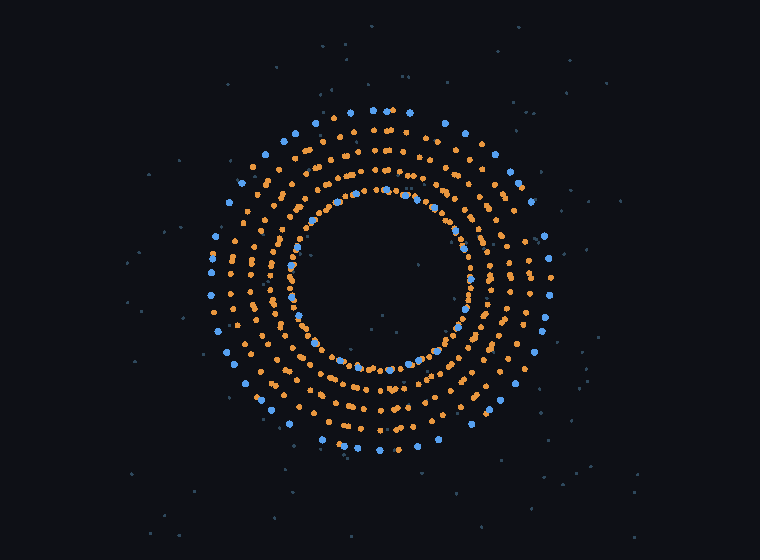
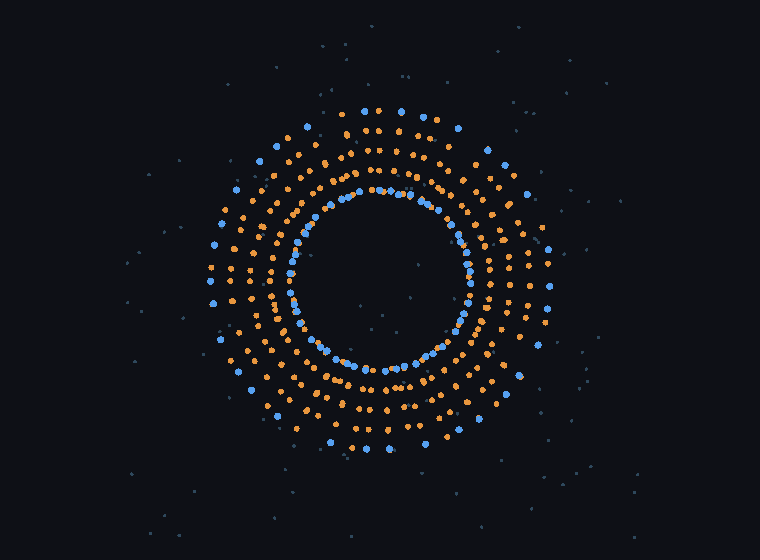
vivarium: 2-D vesicles do not emerge from a dispersed start, at either side of the affordability line
Reframed the criterion first. Demanding that a hand-planted vesicle survive forever is stricter than
the field requires -- simulated vesicles are long-lived METASTABLE states, and a population that forms,
persists and occasionally dissolves is a result. Planted stability is also a confounded diagnostic:
three separate planting artefacts surfaced while chasing it in 3-D (leaflet split by area rather than
volume; an unfilled lumen; a solvent too dilute to pressurise one). So _emerge2d measures the thing
actually wanted -- starting DISPERSED, how often does a closed ring exist AT ALL -- and reports the
fraction of checkpoints classified HOLLOW rather than the final state.

Two runs, 400000 steps, 41 checkpoints each, 1 head + 4 tails, dispersed start, L = 28 where a
spanning stripe costs about 56 lipids:

    N = 70  (stripe affordable)    largest 51/70    HOLLOW at 0 of 41 checkpoints
    N = 45  (ring affordable)      largest 16/45    HOLLOW at 0 of 41 checkpoints

Zero. The falsification criterion stated before the runs is met: closure does not occur by nucleation
here, at either side of the affordability line. Note the ring-favourable arm is the WORSE aggregator --
16 of 45 lipids in the largest cluster against 51 of 70 -- so the regime where a ring could win is
also the regime too dilute to assemble one, which is the trade-off the affordability rule predicts and
the reason the earlier dilute runs stalled at 6-12 of 70.
[…]

Changed region(s): [[0.2724, 0.1821, 0.7263, 0.8196]]

diff --git a/projects/vivarium/_emerge2d.py b/projects/vivarium/_emerge2d.py
@@ -1,0 +1,78 @@
+"""Do vesicles EMERGE in 2-D -- and do they come and go rather than last forever?
+
+REFRAMED CRITERION
+    Demanding that a hand-planted vesicle survive indefinitely is stricter than the field requires.
+    Simulated vesicles are long-lived METASTABLE states, and a population that forms, persists for a
+    while and occasionally dissolves is a result rather than a failure. Planted-stability is also a
+    confounded diagnostic: three separate planting artefacts turned up while chasing it in 3-D
+    (leaflet split by area rather than volume, an unfilled lumen, and a solvent too dilute to
+    pressurise one).
+
+    So this measures the thing actually wanted: starting from DISPERSED lipids, with nothing planted,
+    how often does a closed ring with a lumen exist at all? The readout is the fraction of checkpoints
+    classified HOLLOW over a long run, plus the largest aggregate, not the state at the final step.
+
+HYPOTHESIS     above some concentration a closed ring appears transiently, so the HOLLOW fraction is
+               greater than zero even if no single ring lasts to the end.
+FALSIFICATION  if HOLLOW is never reported at any checkpoint at any concentration, 2-D closure does
+               not occur by nucleation in this model, and the branched-network phase is the whole
+               story.
+
+Concentration is the swept variable because it sets which morphology is affordable: a spanning stripe
+costs about 2L lipids, so at fixed L a ring can only win below that, while too few lipids simply never
+nucleate. The earlier failure -- largest aggregate 6-12 of 70 after 100000 steps -- was at the dilute
+end of exactly this trade-off.
+"""
+
+import sys
+
+import numpy as np
+
+from _mixture import build, geometry, largest_cluster, shot
+from field import Field
+from ring_assay import classify
+
+
+class View:
+    def __init__(self, X, mol, wi, L, pd):
+        self.X, self._mol, self._wi, self.L, self.pd = X, mol, wi, L, pd
+
+
+if __name__ == "__main__":
+    steps = int(sys.argv[1]) if len(sys.argv) > 1 else 400000
+    n_lip = int(sys.argv[2]) if len(sys.argv) > 2 else 70
+    L = float(sys.argv[3]) if len(sys.argv) > 3 else 28.0
+    kT = float(sys.argv[4]) if len(sys.argv) > 4 else 0.35
+    phi, d, n_tail = 0.55, 2, 4
+
+    n_water = int(round(phi * L ** 2 / (np.pi * 0.25))) - (1 + n_tail) * n_lip
+    if n_water < 0:
+        raise ValueError(f"L={L} too small for {n_lip} lipids at packing fraction {phi}")
+    X, species, bonds, mols, wi, chains = build(0, n_lip, n_water, L, d, plant="random")
+    mol = np.array([m for m in mols])
+    f = Field(species, bonds, L)
+    gamma, dt = 1.0, 2e-4
+    rng = np.random.default_rng(1)
+    amp = np.sqrt(2.0 * kT * dt / gamma)
+
+    print(f"EMERGENCE 2-D: {n_lip} lipids (1 head + {n_tail} tails) + {n_water} water, L={L}, "
+          f"kT={kT}, dispersed start, {steps} steps", flush=True)
+    print(f"a spanning stripe costs about {2 * L:.0f} lipids, so a ring is affordable "
+          f"{'BELOW' if n_lip < 2 * L else 'ABOVE -- stripe wins'} this count", flush=True)
+    print(f"{'step':>8}{'E/lip':>9}{'largest':>9}{'R_mid':>7}{'shellCV':>9}{'lumenW':>8}   verdict",
+          flush=True)
+    every = max(steps // 40, 1)
+    hollow = 0
+    checks = 0
+    for t in range(steps + 1):
+        X += (f.forces(X) / gamma) * dt + amp * rng.normal(size=X.shape)
+        X -= L * np.round(X / L)
+        if t % every == 0:
+            v, dd = classify(View(X, mol, wi, L, 2))
+            g = geometry(X, mols, wi, chains, L, d)
+            checks += 1
+            hollow += (v == "HOLLOW")
+            print(f"{t:>8}{f.energy(X) / n_lip:>9.2f}{largest_cluster(X, mols, L):>9}"
+                  f"{g['R_mid']:>7.2f}{g['shell_cv']:>9.3f}{g['lumen_w']:>8}   {v}", flush=True)
+            shot(X, species, L, f"em2d_N{n_lip}_L{int(L)}_s{t:07d}")
+    print(f"\nHOLLOW at {hollow} of {checks} checkpoints ({100.0 * hollow / checks:.0f}%)", flush=True)

diff --git a/projects/vivarium/_mixture.py b/projects/vivarium/_mixture.py
@@ -112,8 +112,46 @@ def build(n_short, n_long, n_water, L, d, tails=(2, 4), seed=0, plant="random"):
     wi = np.arange(k, n)
     species[wi] = WATER
     X[wi] = rng.uniform(-L / 2, L / 2, size=(n_water, d))
+    if plant in ("ring", "sphere"):
+        # FILL THE LUMEN AT BULK DENSITY. Water placed uniformly at random almost never lands inside a
+        # planted vesicle: in 3-D at packing fraction 0.10 a lumen of radius 3.7 should hold ~16 waters
+        # and caught 4, so the interior was under-pressurised and the shell was crushed from outside --
+        # lumen 4 -> 0 within 7500 steps. Real vesicle-construction protocols solvate the interior
+        # explicitly for this reason. This also explains the 2-D/3-D contrast seen here: the 2-D runs
+        # used packing fraction 0.55, where the lumen caught ~50 waters by chance and was properly
+        # filled, while the 3-D runs used 0.10 and were not.
+        _fill_lumen(X, wi, mols, np.array(chains), L, d, rng)
     X -= L * np.round(X / L)
     return X, species, np.array(bonds), mols, wi, np.array(chains)
+
+
+def _fill_lumen(X, wi, mols, chains, L, d, rng):
+    """Move enough water inside the planted shell that the lumen sits at the BULK number density.
+
+    Waters are taken from the ones currently furthest from the centre, so the bulk is thinned evenly
+    rather than a hole being cut in it. If the lumen already holds its share, nothing moves.
+    """
+    lipid_beads = np.concatenate(mols)
+    cen = X[lipid_beads].mean(axis=0)
+    rt = np.linalg.norm(_wrap(X[lipid_beads] - cen, L), axis=1)
+    lip = float(chains.mean())
+    r_in = float(np.median(rt)) - lip
+    if r_in <= 1.0:
+        return 0
+    bulk = len(wi) / L ** d
+    want = int(round(bulk * C_D[d] * r_in ** d))
+    rw = np.linalg.norm(_wrap(X[wi] - cen, L), axis=1)
+    have = int((rw < r_in).sum())
+    need = want - have
+    if need <= 0:
+        return 0
+    outer = wi[np.argsort(rw)[::-1][:need]]
+    # uniform in the ball: radius scales as u^(1/d) so density is flat, not centre-heavy
+    u = rng.random(need) ** (1.0 / d)
+    v = rng.normal(size=(need, d))
+    v /= np.linalg.norm(v, axis=1, keepdims=True)
+    X[outer] = cen + v * (u * (r_in - 0.5))[:, None]
+    return need
 
 
 def _plant_sphere(X, mols, chains, d):
